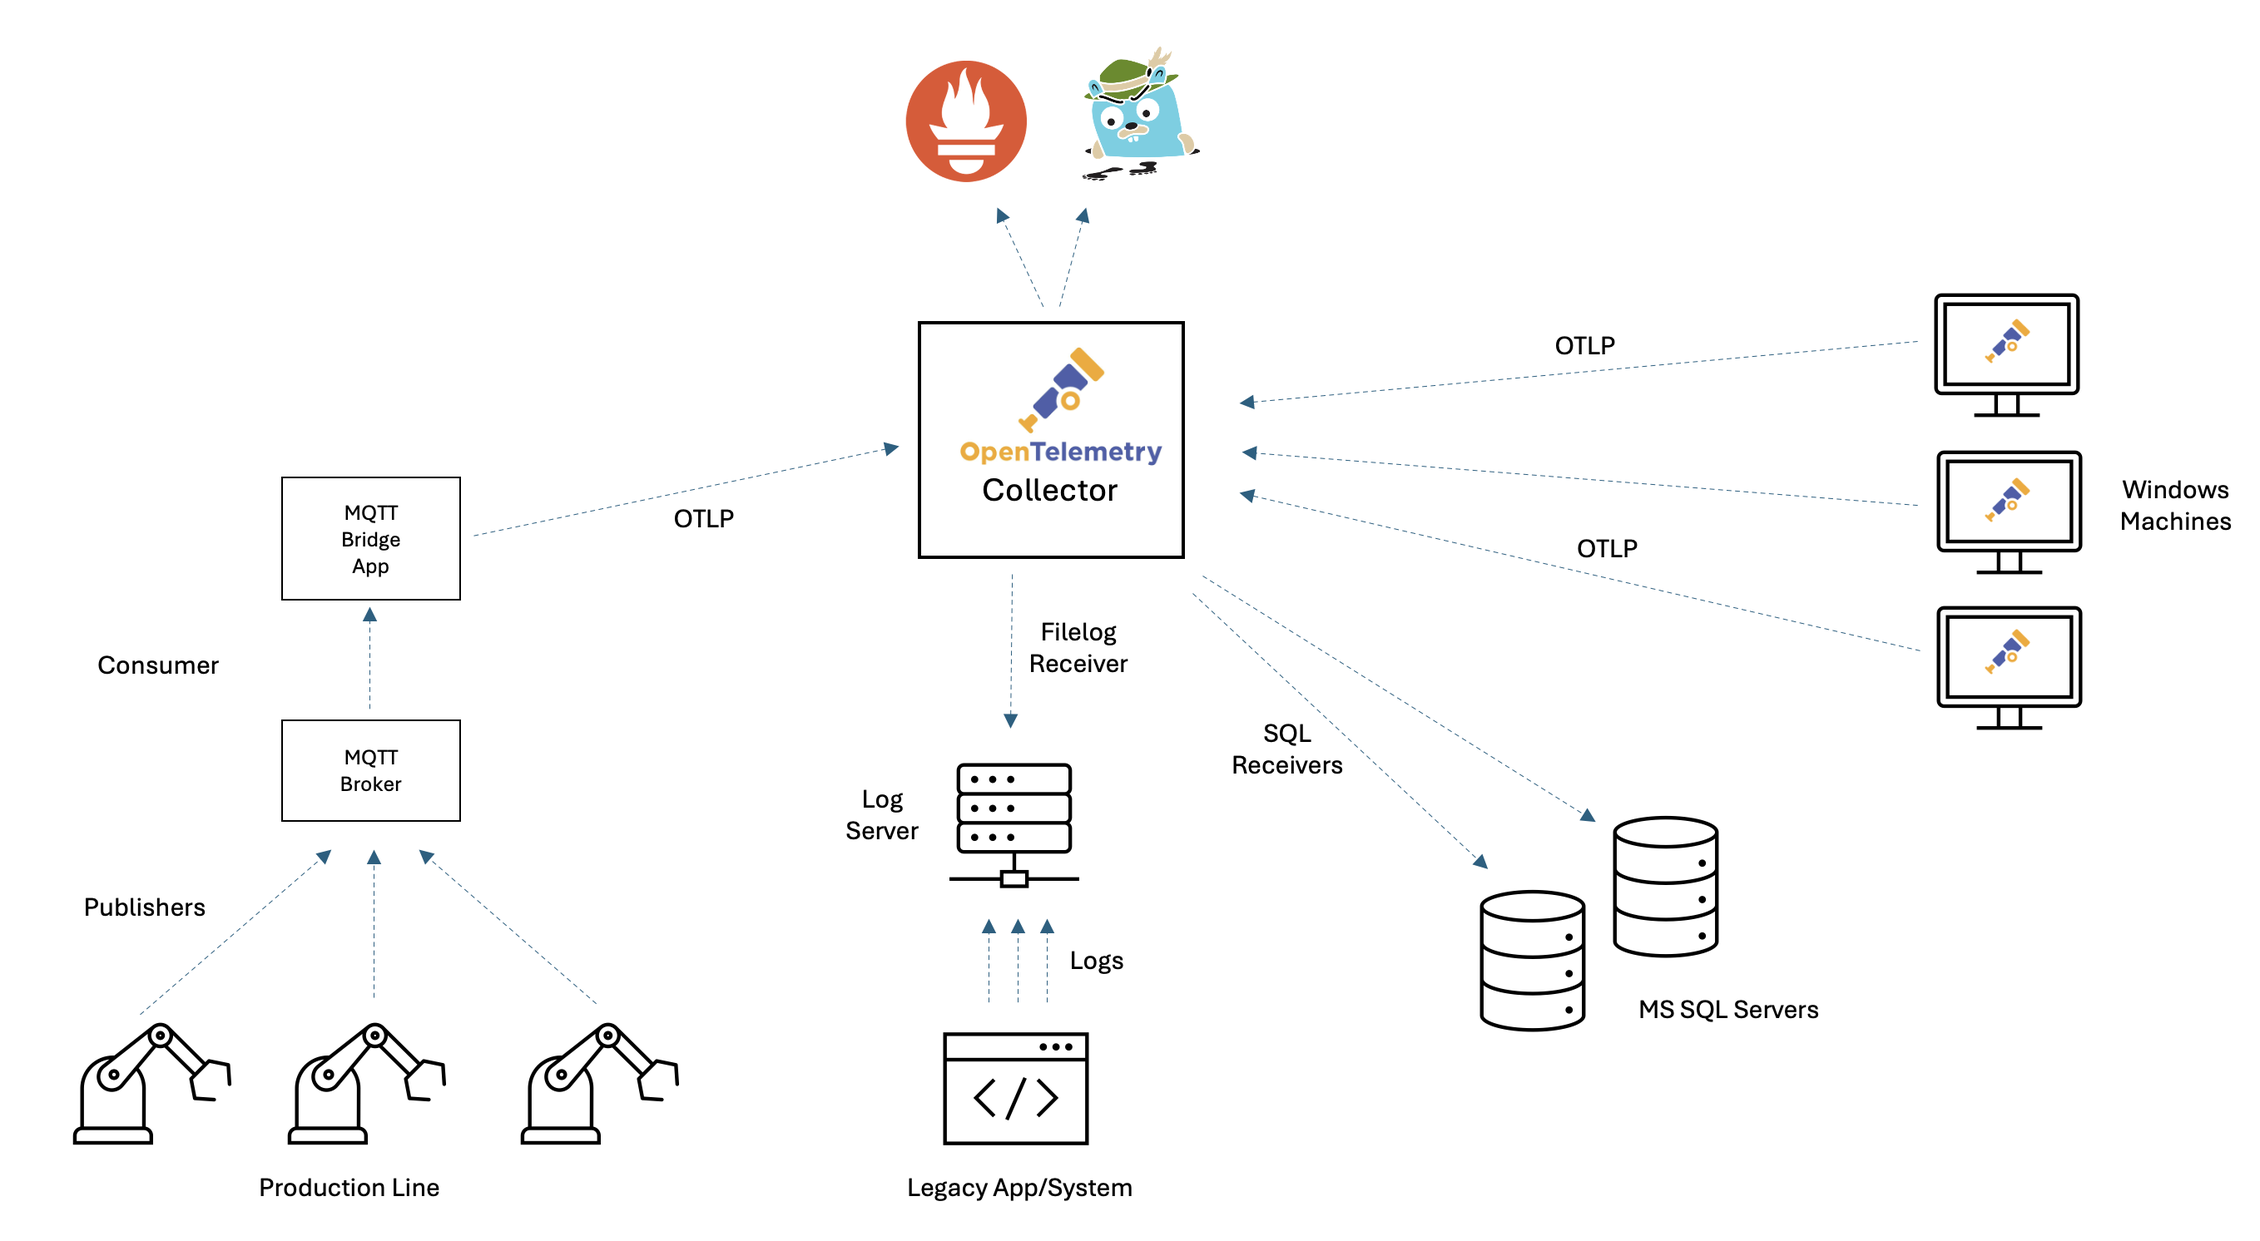
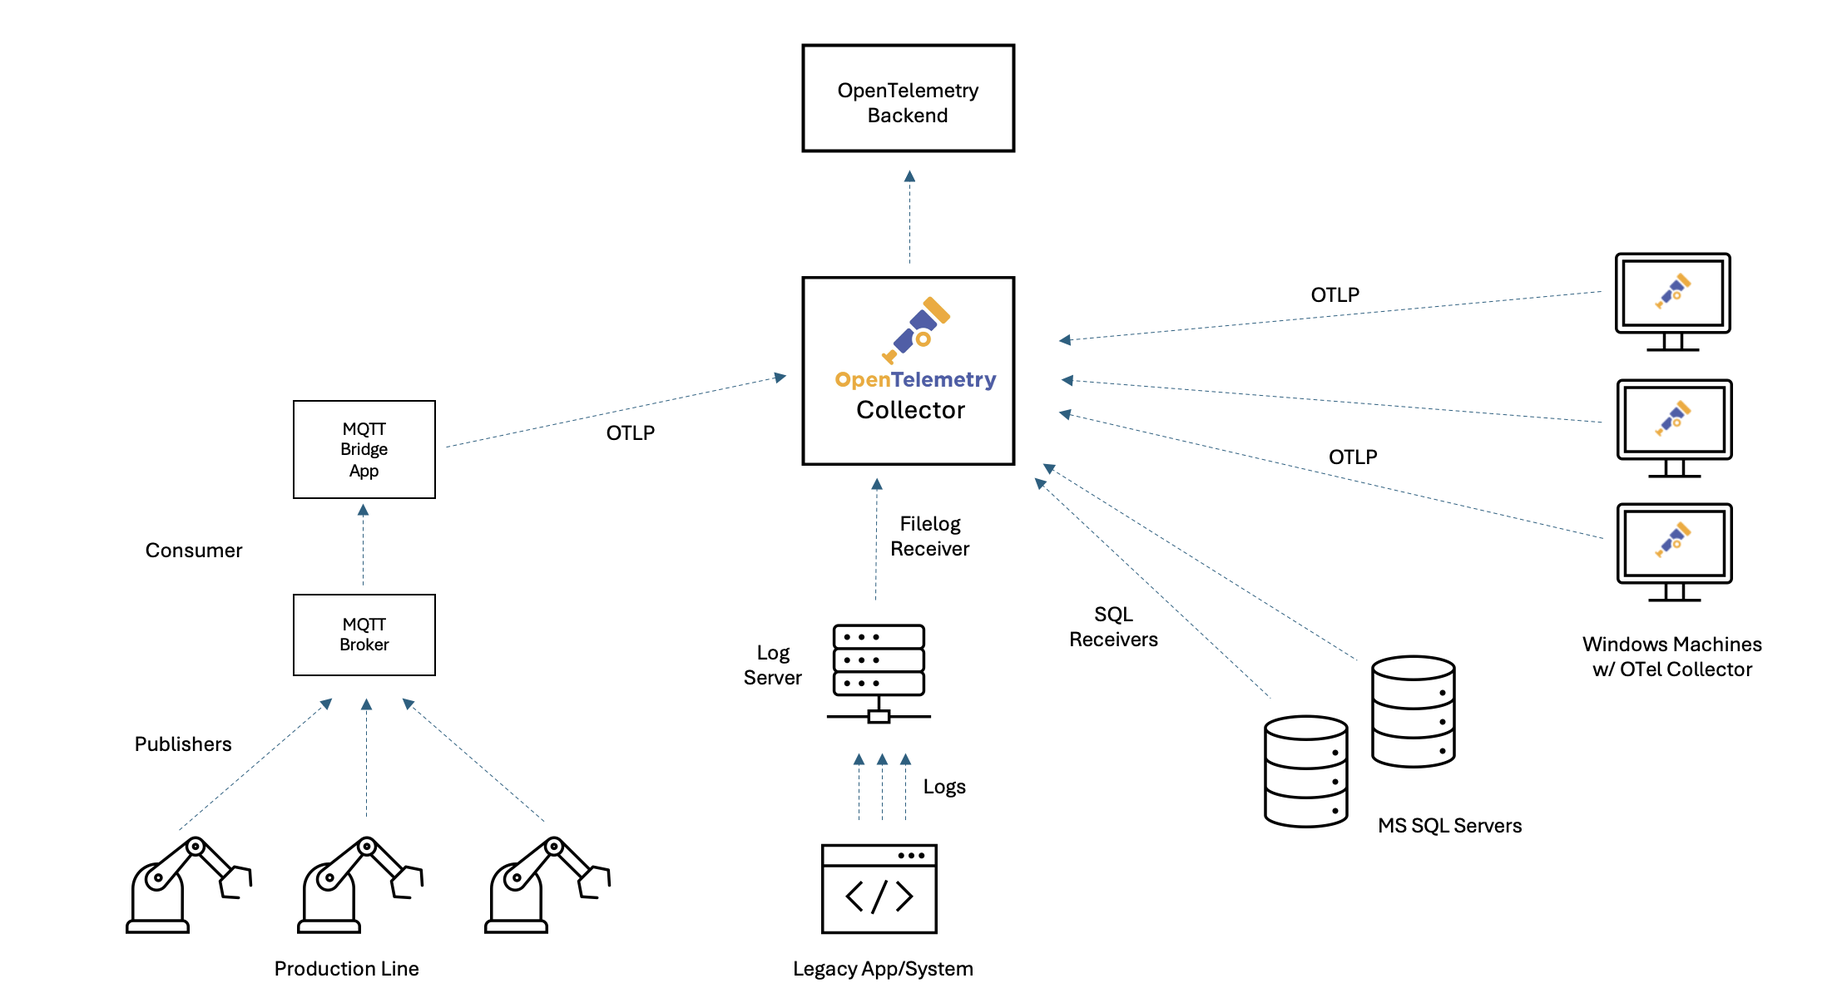
Minor changes to Demystifying OpenTelemetry blog post

diff --git a/content/en/blog/2026/demystifying-opentelemetry/index.md b/content/en/blog/2026/demystifying-opentelemetry/index.md
@@ -2,14 +2,14 @@
 title: Demystifying OpenTelemetry: Why You Shouldn’t Fear Observability in Traditional Environments
 author: '[Lukasz Ciukaj](https://github.com/luke6Lh43) (Splunk)'
 linkTitle: Demystifying OpenTelemetry
-date: 2025-12-19
+date: 2026-1-3
 issue: 8548
 sig: End-User
 cSpell:ignore: ciukaj lukasz
 ---
-For decades, traditional technology environments—ranging from on-premises data centers to legacy applications and industrial control systems—have powered the core of many organizations. These systems are battle-tested and deeply woven into business operations, but they also present unique challenges when it comes to modernizing IT practices—especially observability.
+For decades, traditional technology environments, ranging from on-premises data centers to legacy applications and industrial control systems, have powered the core of many organizations. These systems are battle-tested and deeply woven into business operations, but they also present unique challenges when it comes to modernizing IT practices, especially observability.
 
-**Challenges of Implementing Observability in Traditional Environments:**
+**Challenges of implementing observability in traditional environments:**
 
 * Noisy, unstructured logs make it hard to extract meaningful information.
 * Siloed monitoring data across different tools or systems leads to fragmented visibility.
@@ -23,86 +23,95 @@ To make this practical, let’s follow a fictional manufacturing company with a 
 
 ![Alt text for the image](fictional-organization-architecture.png)
 
-Unlike cloud-native environments where instrumentation is built-in, legacy and industrial systems rely on inconsistent logs, limited metrics, and fragmented tools. This leads to a lack of visibility that makes troubleshooting, tuning, and maintenance slow and painful. As organizations look to improve reliability and accelerate transformation, observability is no longer a “nice to have” - it’s a strategic necessity. But the path is often clouded by persistent myths. Let’s bust a few.
+Unlike cloud-native environments where instrumentation is built-in, legacy and industrial systems rely on inconsistent logs, limited metrics, and fragmented tools. This leads to a lack of visibility that makes troubleshooting, tuning, and maintenance slow and painful. As organizations look to improve reliability and accelerate transformation, observability is no longer a “nice to have” - it’s a strategic necessity.  But the path to observability, and to standardizing on OpenTelemetry, is often clouded by persistent myths. Let’s bust a few!
 
 ## Myth 1: Our systems just generate a bunch of useless logs – there’s no way observability can be done here.
 
-Think about your legacy production systems: maybe you have old machinery or apps that simply spit out line after line of plain text logs to a file. No JSON, no structure, no API—just lines of text. It’s easy to assume there’s no way to extract meaningful insight from that mess.
+Think about your legacy production systems: maybe you have old machinery or apps that simply spit out line after line of plain text logs to a file. No JSON, no structure, no API - just endless lines of text. It’s easy to assume there’s no way to extract meaningful insight from that mess.
 
-**Why this myth persists:**
+**Why this myth persists?**
 
-In many traditional environments, whether it’s a production line, a legacy application, or an industrial control system, the only digital “signal” you might see is a stream of raw, unstructured log files. These logs might seem like little more than noise: machine starts and stops, product counts, operator interventions, or fault messages written line by line to disk. But with modern observability tools like OpenTelemetry, these “useless” logs can become a goldmine of operational insight.
+In many traditional environments, whether it’s a production line, a legacy application, or an industrial control system, the only digital “signal” you might see is a stream of raw, unstructured log files. To an Operations Manager, these files are frustratingly opaque. She or he cares deeply about specific faults; knowing whether Line 1 is down due to a "Jam" versus "LowPressure" dictates immediate response and maintenance strategy. But when that critical data is buried in unstructured text like **FAULT_DETECTED: Line1, Fault=Jam**, it is invisible to standard monitoring dashboards. You can't graph text, you can't alert on a string inside a file easily, and you certainly can't see trends over time. This leads to the myth that these systems are "black boxes". But with modern observability tools like OpenTelemetry, these “useless” logs can become a goldmine of operational insight.
 
 **Example legacy log lines:**
 
 ```
-2025-12-14 12:01:03 | MACHINE_START: Line1
-2025-12-14 12:01:05 | PRODUCT_COMPLETED: Line1, Count=1
-2025-12-14 12:01:08 | FAULT_DETECTED: Line1, Fault=Overheat
-2025-12-14 12:01:12 | OPERATOR_INTERVENTION: Line1, OperatorID=007
-2025-12-14 12:01:14 | SENSOR_READING: Line1, Temp=78.4
-2025-12-14 12:01:18 | MACHINE_STOP: Line1
-2025-12-14 12:01:23 | MACHINE_START: Line2
-2025-12-14 12:01:25 | PRODUCT_COMPLETED: Line2, Count=1
-2025-12-14 12:01:28 | PRODUCT_COMPLETED: Line2, Count=1
-2025-12-14 12:01:31 | FAULT_DETECTED: Line2, Fault=Jam
-2025-12-14 12:01:34 | OPERATOR_INTERVENTION: Line2, OperatorID=011
+2026-01-04 00:39:58 | PRODUCT_COMPLETED: Line1, Count=1
+2026-01-04 00:40:00 | FAULT_DETECTED: Line2, Fault=LowPressure
+2026-01-04 00:40:02 | MACHINE_START: Line2
+2026-01-04 00:40:07 | FAULT_DETECTED: Line2, Fault=Overheat
+2026-01-04 00:40:10 | MACHINE_START: Line2
+2026-01-04 00:40:14 | PRODUCT_COMPLETED: Line1, Count=1
+2026-01-04 00:40:18 | MACHINE_START: Line2
+2026-01-04 00:40:21 | PRODUCT_COMPLETED: Line1, Count=1
+2026-01-04 00:40:27 | SENSOR_READING: Line1, Temp=83.9
+2026-01-04 00:40:29 | FAULT_DETECTED: Line1, Fault=LowPressure
+2026-01-04 00:40:32 | SENSOR_READING: Line1, Temp=84.7
+2026-01-04 00:40:34 | PRODUCT_COMPLETED: Line1, Count=1
 ```
 
-**How to make logs observable:**
+**How to make this system observable?**
 
-OpenTelemetry Collector can watch these files in real time, parse the events, and—without requiring any code changes to the legacy application—transform them into structured metrics.
+OpenTelemetry Collector can watch these files in real time, parse the events, and, without requiring any code changes to the legacy application, transform them into structured metrics.
 
-**OpenTelemetry Collector config:**
+**Sample OpenTelemetry Collector config:**
 
 ```yaml
 receivers:
   filelog:
     include: [ /logs/legacy.log ]
     start_at: end
-    storage: file_storage
-    poll_interval: 5s
     operators:
+      # 1. Generic Parsing: Capture Timestamp, Event, Line, and put the rest in 'params'
       - type: regex_parser
-        regex: '^(?P<timestamp>\d{4}-\d{2}-\d{2} \d{2}:\d{2}:\d{2}) \| (?P<event_type>[A-Z_]+): (?P<line>Line\d+)(?:, Count=(?P<count>\d+))?(?:, Fault=(?P<fault>\w+))?(?:, OperatorID=(?P<operator_id>\w+))?(?:, Temp=(?P<temp>[\d\.]+))?'
+        regex: '^(?P<timestamp>.+?) \| (?P<event_type>[A-Z_]+): (?P<line>Line\d+)(?:, (?P<params>.*))?'
         timestamp:
           parse_from: attributes.timestamp
           layout: '%Y-%m-%d %H:%M:%S'
 
+      # 2. Specific Extraction: Look for "Fault=" only inside the 'params'
+      - type: regex_parser
+        regex: 'Fault=(?P<fault>\w+)'
+        parse_from: attributes.params
+        if: 'attributes.params != nil'
+
 connectors:
   count:
     logs:
-      legacy_log_events_total:
-        description: "Counts the number of events from the legacy log file."
+      machine_events_total:
+        description: "Count of manufacturing events by type, line, and fault."
         attributes:
           - key: event_type
             default_value: "unknown"
           - key: line
             default_value: "unknown"
           - key: fault
-            default_value: "none"
-          - key: operator_id
-            default_value: "none"
+            default_value: "none" # Automatically applied if no fault is found
 
 service:
   pipelines:
     logs:
       receivers: [filelog]
       exporters: [count]
-    metrics/count:
+    metrics/generated:
       receivers: [count]
       exporters: [prometheus]
 ```
 
 **How it works:**
 
-* The filelog receiver tails your legacy log file in real time and parses out detailed attributes.
-* The count connector turns parsed log events into metrics (like legacy_log_events_total), sliced by event type, line, fault, and operator.
-* The metrics pipeline exposes these as Prometheus metrics, ready for dashboards and alerts.
+* **Chained Parsing:** The filelog receiver first identifies the high-level event (e.g., FAULT_DETECTED). It then runs a second, specific check just to extract the Fault type (like "Jam" or "Overheat"). This makes the configuration robust and easy to read.
+* **Metric Generation:** The count connector converts these parsed logs into a metric called machine_events_total.
+
+<br>
 
 **Result:**
 
-With this configuration, your old logs become a structured, queryable data source—fueling dashboards and insights without any changes to the legacy app. Myth busted!
+With this configuration, your old text logs become a structured, queryable data source. Your Operations Manager can now open a dashboard and see exactly how many "Jam" faults occurred on "Line 1" in the last hour, fueling data-driven decisions without changing a single line of code in the legacy app. Myth busted!
+
+Sample dashboard in Prometheus:
+
+![Alt text for the image](prometheus-faults-dashboard.png)
 
 ## Myth 2: Our IoT devices publish telemetry to MQTT broker, so integrating with OpenTelemetry isn’t possible.
 
@@ -110,7 +119,7 @@ Our production line relies on robotic arms and sensors that send readings to an 
 
 **Why this myth persists:**
 
-MQTT is the messaging backbone for countless industrial and IoT environments, reliably ferrying sensor data from devices to brokers. However, since MQTT uses its own lightweight protocol and ecosystem, many teams assume their sensor data can’t be easily brought into modern observability pipelines. Some MQTT brokers now natively integrate with OpenTelemetry, allowing direct export of metrics and traces using the OTLP protocol. If you’re using a modern broker with this feature, you can simply point your broker at your collector’s OTLP endpoint—no additional code required. If your broker does not support OTLP export, you’re still not blocked: you can use a lightweight bridge service to subscribe to MQTT topics and forward messages to the OpenTelemetry Collector.
+MQTT is the messaging backbone for countless industrial and IoT environments, reliably ferrying sensor data from devices to brokers. However, since MQTT uses its own lightweight protocol and ecosystem, many teams assume their sensor data can’t be easily brought into modern observability pipelines. Some MQTT brokers now natively integrate with OpenTelemetry, allowing direct export of metrics and traces using the OTLP protocol. If you’re using a modern broker with this feature, you can simply point your broker at your collector’s OTLP endpoint - no additional code required. If your broker does not support OTLP export, you’re still not blocked: you can use a lightweight bridge service to subscribe to MQTT topics and forward messages to the OpenTelemetry Collector.
 
 **Example: Data Sent from an IoT Sensor:**
 
@@ -131,7 +140,7 @@ This message tells us which device sent it, details about the job, and the relev
 
 **Creating Traces and Spans in the MQTT Bridge App:**
 
-To get real end-to-end visibility (not just metrics) it's powerful to create an OpenTelemetry span for the duration of each job. This allows you to correlate a specific device job with downstream processing, latency, or errors. Below is a short snipped of sample MQTT bridge app that listens for sensor messages, extracts job timing, and creates a span reflecting the job’s duration:
+To get real end-to-end visibility (not just metrics) it's powerful to create an OpenTelemetry span for the duration of each job. This allows you to correlate a specific device job with downstream processing, latency, or errors. Below is a short snipped of sample MQTT bridge Python app that listens for sensor messages, extracts job timing, and creates a span reflecting the job’s duration:
 
 ```python
 import json
@@ -180,20 +189,20 @@ Sample span in Jaeger:
 
 **What’s the trick here?**
 
-By explicitly specifying start_time=job_start.timestamp() (and optionally end_time), the span precisely tracks the job’s real-world execution, even if the message is processed later. This gives you accurate, queryable traces that show exactly when each job occurred and how long it took—across devices, processing steps, and backends.
+By explicitly specifying start_time=job_start.timestamp() (and optionally end_time), the span precisely tracks the job’s real-world execution, even if the message is processed later. This gives you accurate, queryable traces that show exactly when each job occurred and how long it took across devices, processing steps, and backends.
 
 You have several options for translating IoT sensor data into metrics for dashboards and alerts:
 
-* Emit metrics directly from your bridge app: You can use OpenTelemetry’s metrics API to send custom metrics (such as temperature, humidity, or job duration) alongside or instead of spans.
+* **Emit metrics directly from your bridge app:** You can use OpenTelemetry’s metrics API to send custom metrics (such as temperature, humidity, or job duration) alongside or instead of spans.
 
-* Write a dedicated processor: Build a custom OpenTelemetry Collector processor that derives metrics from incoming spans—extracting values from span attributes.
+* **Write a dedicated processor:** Build a custom OpenTelemetry Collector processor that derives metrics from incoming spans and then extracting values from span attributes.
   
-* Leverage your observability backend: Many modern backends can generate metrics from span attributes, making it easy to turn your job telemetry into actionable, queryable metrics with minimal extra plumbing.
+* **Leverage your observability backend:** Many modern backends can generate metrics from span attributes, making it easy to turn your job telemetry into actionable, queryable metrics with minimal extra plumbing.
 
 <br>
 
 **Bottom line:**
-If your MQTT broker supports OpenTelemetry, use native OTLP export for seamless integration. If not, a simple bridge app can transform your sensor and event streams into full observability data—complete with metrics and traces. Modern observability backends make it even easier by allowing metrics to be derived from span attributes—so you can go from IoT signal to meaningful insight with very little friction. Myth busted!
+If your MQTT broker supports OpenTelemetry, use native OTLP export for seamless integration. If not, a simple bridge app can transform your sensor and event streams into full observability data. Modern observability backends make it even easier by allowing metrics to be derived from span attributes, so you can go from IoT signal to meaningful insight with very little friction. Myth busted!
 
 ## Myth 3: Windows and SQL Server Environments Are Incompatible with Observability.
 
@@ -204,7 +213,7 @@ It’s a common belief that monitoring and observability are only possible in cl
 
 **Observing SQL Server with the OpenTelemetry Collector:**
 
-Many organizations rely on SQL Server databases for production, analytics, or inventory. With the OpenTelemetry Collector’s sqlserver receiver, you can scrape health and performance metrics directly—no agents needed on your database hosts.
+Many organizations rely on SQL Server databases for production, analytics, or inventory. With the OpenTelemetry Collector’s sqlserver receiver, you can scrape health and performance metrics directly, without needing agents on your database hosts. Below is a sample configuration showing how to set this up:
 
 ```yaml
 receivers:
@@ -230,13 +239,14 @@ service:
 ```
 
 **What this achieves:**
+
 The Collector regularly scrapes key SQL Server metrics (connections, buffer pool, locks, batch rates, and more), exposing them to observability backends. 
 
 ![Alt text for the image](prometheus-sqlserver.png)
 
 **Observing Windows Machines with the Windows Performance Counters Receiver:**
 
-Classic Windows hosts still drive many production and control environments. The Windows Performance Counters Receiver (part of the OpenTelemetry Collector Contrib distribution) lets you collect a wide array of system, application, or custom metrics—right from the Windows registry—using the native PDH interface.
+Classic Windows hosts still drive many production and control environments. The Windows Performance Counters Receiver (part of the OpenTelemetry Collector Contrib distribution) lets you collect a wide array of system, application, or custom metrics right from the Windows registry using the native PDH interface. Below is a sample configuration for a lightweight agent running on a Windows machine, forwarding its data to a central collector:
 
 ```yaml
 receivers:
@@ -262,27 +272,34 @@ receivers:
           - name: "Committed Bytes"
             metric: memory.committed
 
+exporters:
+  otlp:
+    endpoint: "central-collector:4317"
+
 service:
   pipelines:
     metrics:
       receivers: [windowsperfcounters]
-      exporters: [prometheus]
+      exporters: [otlp]
 ```
 
+<br>
+
 **What this achieves:**
-You can ingest CPU, memory, disk, and any custom Windows counters—turning even decades-old systems into first-class observability citizens. The receiver is robust: if a counter isn’t present, it logs a warning but continues scraping all available metrics.
+
+You can ingest CPU, memory, disk, and any custom Windows counters, turning even decades-old systems into first-class observability citizens. The receiver is robust: if a counter isn’t present, it logs a warning but continues scraping all available metrics.
 
 ![Alt text for the image](prometheus-windows.png)
 
 ## Conclusion
 
-OpenTelemetry Collector unifies data from legacy logs, MQTT streams, SQL Server databases, and even classic Windows hosts—busting the myth that observability is only for greenfield or cloud-native systems. With the right configuration, your entire environment—no matter how old or fragmented—can gain actionable, real-time insights for reliability, troubleshooting, and performance optimization.
+OpenTelemetry Collector unifies data from legacy logs, MQTT streams, SQL Server databases, and even classic Windows hosts, busting the myth that observability is only for greenfield or cloud-native systems. With the right configuration, your entire environment, no matter how old or fragmented, can gain actionable, real-time insights for reliability, troubleshooting, and performance optimization.
 
 
 The examples in this post show that it’s not just possible, but practical to bring decades-old logs, industrial telemetry, and classic Microsoft infrastructure into a modern observability stack. You don’t need to rip and replace; you can build on what you already have, instrument incrementally, and unlock new value from systems that used to be black boxes.
 
 
-By breaking down these myths, we see that every environment - no matter how traditional or complex—has the potential to become observable, resilient, and ready for digital transformation. OpenTelemetry offers a flexible, open standard that grows with you, letting you modernize at your own pace.
+By breaking down these myths, we see that every environment, no matter how traditional or complex—has the potential to become observable, resilient, and ready for digital transformation. OpenTelemetry offers a flexible, open standard that grows with you, letting you modernize at your own pace.
 
 
-All myths busted. Visibility achieved. Your traditional environment is ready for the future. Now’s the time to turn insight into action.
+All myths busted. Visibility achieved. Your traditional environment is ready for the future. Now’s the time to turn insight into action!
